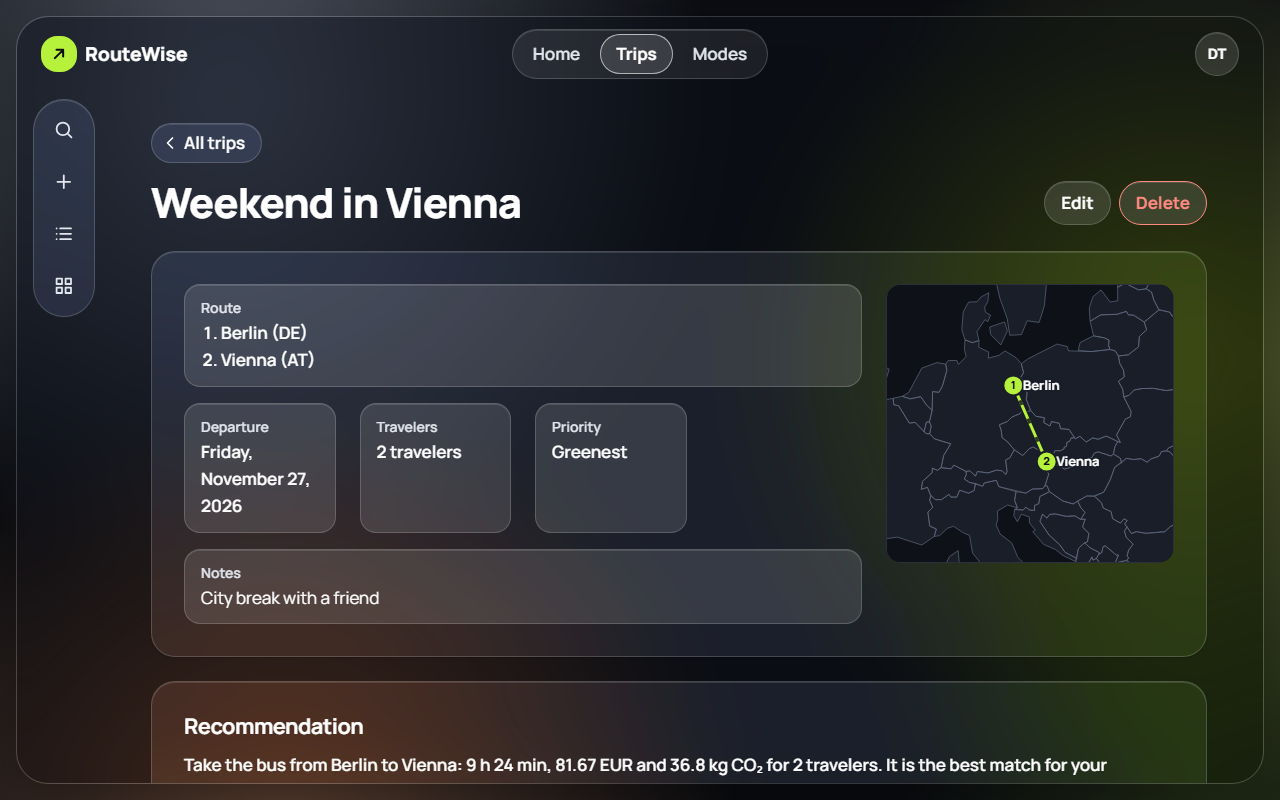
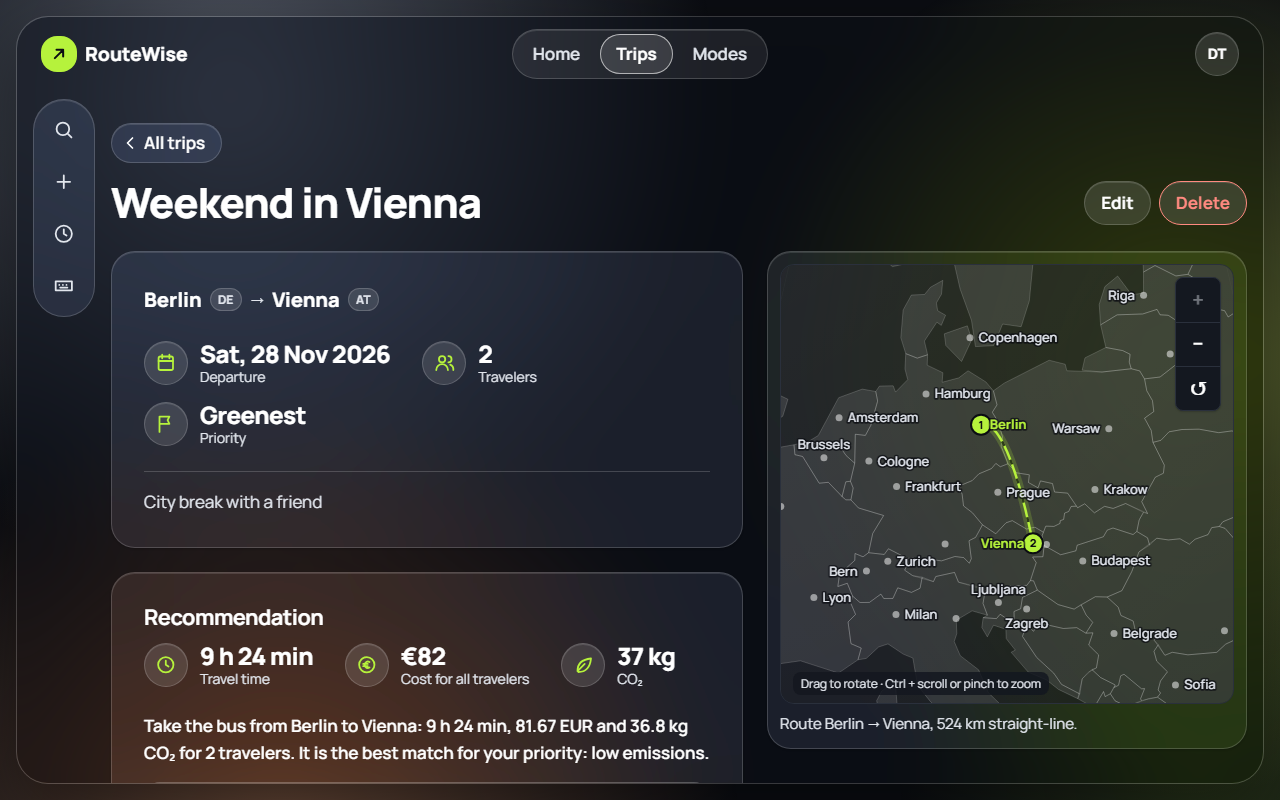
docs: complete trip details redesign milestone
Ticks feat/trip-details-redesign, logs its decisions and the
AI_WORKFLOW entry, and adds the after screenshots (2-stop and
multi-stop trip at 1920/1280/375 px).

diff --git a/docs/PLAN.md b/docs/PLAN.md
@@ -244,7 +244,7 @@ Breaking change in `feat/multi-stop-trips`: trip, comparison and draft payloads 
   - "this weekend" (Saturday, or today on Saturday or Sunday, like the UI shortcut) and "next weekend" (the Saturday after that) are new; "next week" becomes next Monday, matching the UI shortcut (was today + 7); today, tomorrow, "in N days/weeks", "next <weekday>" (its next occurrence after today) and explicit dates such as "Dec 4" keep working
   - Done when: a unit test per expression with a fixed clock (hand-computed dates, incl. Saturday/Sunday edge cases); `backend-reviewer` 🔴 fixed; `./mvnw verify` green
 - [ ] `docs/readme-demo`: README and demo recording
-- [ ] `feat/trip-details-redesign`: a more readable and interactive trip details page (reference: `docs/trips_details.png`, local and git-ignored; frontend only, no API change)
+- [x] `feat/trip-details-redesign`: a more readable and interactive trip details page (reference: `docs/trips_details.png`, local and git-ignored; frontend only, no API change)
   - Depends on `fix/ui-cleanup` (comparison chart accent and priority line)
   - Header: title, then the route as one horizontal stop chain (city chips with arrows, wrapping, a repeated city shown again: Berlin → Prague → Vienna → Munich → Berlin) instead of a numbered list in a box; date (one line, e.g. "Sat, 5 Dec 2026"), travelers and priority as `StatChip`s in one row; notes as a quiet line under them; Edit and Delete stay
   - Layout from 1280 px: content at the left, the globe in a larger glass panel at the right that stays in view while the page scrolls (sticky); below 1280 px the globe sits under the header at full width
@@ -432,6 +432,9 @@ Breaking change in `feat/multi-stop-trips`: trip, comparison and draft payloads 
 | 2026-11-14 | The "Auto-rotate" toggle supersedes "Pause globe rotation": on by default, off by default under `prefers-reduced-motion`, an explicit choice (saved) always wins; hover means the pointer over the globe disc, and only keyboard focus (`:focus-visible`) blocks the rotation | Human report: rotation never started because the whole map rectangle counted as hover and a click-left focus blocked it for good; reduced-motion users must be able to opt in. A Playwright check (`npm run e2e`) now guards it |
 | 2026-11-14 | `fix/ui-cleanup`: the comparison chart's accent follows the selected metric (best mode, ties all count, as on the Modes page) while the "Recommended" badge stays with the priority; Delete only in the "⋯" menu and on trip details (quick-action and expanded-row buttons removed) | Human report: on the Time tab the lime bar marked the slowest mode next to "Shorter is better"; too many delete buttons on the Trips page |
 | 2026-11-14 | New milestone `feat/trip-details-redesign`: stop chain, key figures, leg timeline and an interactive globe linked to the legs, frontend only | Human request ("more readable and interactive", reference `docs/trips_details.png`): the page was a vertical list in boxes, a text-only recommendation and a static map; all data needed is already in the trip, comparison and advice responses |
+| 2026-11-14 | Trip details globe: navigable with `pickable=false` (cities as plain marks) instead of offering city buttons | Clicking a city on a saved route had no meaning; drag, zoom and keys are what "interactive" means there |
+| 2026-11-14 | A focused leg turns the globe only when an end is more than 60° from the centre; faded legs at 60 % opacity | Near the rim a leg is technically visible but squeezed; 60 % keeps faded legs at 3.35:1 (30 % was 1.9:1, 50 % 2.8:1) |
+| 2026-11-14 | Leg rows link to the globe on hover and focus, plus a "Show on map" toggle per row (`aria-pressed`) | Rows are not focusable; a toggle gives keyboard and touch users the same highlight without a tabindex on non-interactive rows |
 
 ## Backlog / ideas
 

diff --git a/docs/AI_WORKFLOW.md b/docs/AI_WORKFLOW.md
@@ -641,3 +641,18 @@ corrected manually, and why.
 **Why**
 - The frame budget was set by a design choice (full-shell glass) that a single feature cannot fix. Measuring before accepting made the trade-off visible and gave the human a real choice instead of a silent compromise.
 
+## feat/trip-details-redesign
+
+**Delegated to AI**
+- Main session (no builder subagents): the milestone plan from a reference screenshot (`docs/trips_details.png`, local only), `RouteMap` `pickable` and `focusLeg` with the 60° turn rule, the stop chain and fact chips, the sticky globe layout, the recommendation's figures, leg rows and tip callouts, `LegFocus` / `appLegHover` / `app-leg-map-toggle`, specs, and before/after captures (the screenshot script now captures a 2-stop and a multi-stop trip).
+- `ui-reviewer` audited the branch: 3 🔴, 6 🟡, 5 🟢.
+
+**Corrected manually / human decisions**
+- A focused leg near the rim counted as "visible" (100° of longitude at 50° N is still the near side), so the globe never turned in the spec. The rule became "within 60° of the centre" (`isClearlyVisible`).
+- City and country ran together for screen readers ("BerlinDE"); a visually hidden ", " now separates them.
+- The reviewer proposed 50 % opacity for faded legs to meet 3:1; a contrast check gave 2.8:1, so 60 % (3.35:1) was used.
+- Keyboard access to the map link: list rows are not focusable, so each leg row got a "Show leg N on the map" toggle (`aria-pressed`) instead of a tabindex on the row.
+- Left open (reported, not fixed): the turn check ignores zoom, pinned stop labels can overlap (Munich/Vienna), the figures row appears only once the comparison arrives (layout shift), a pointer leave clears the highlight while focus is still in the row, and the globe sits second in tab order from 1280 px.
+
+**Why**
+- Everything the page needed was already in the trip, comparison and advice responses, so the redesign stayed frontend only; the advisor's sentences are shown as written instead of being parsed, which keeps the AI and rule-based texts interchangeable.
